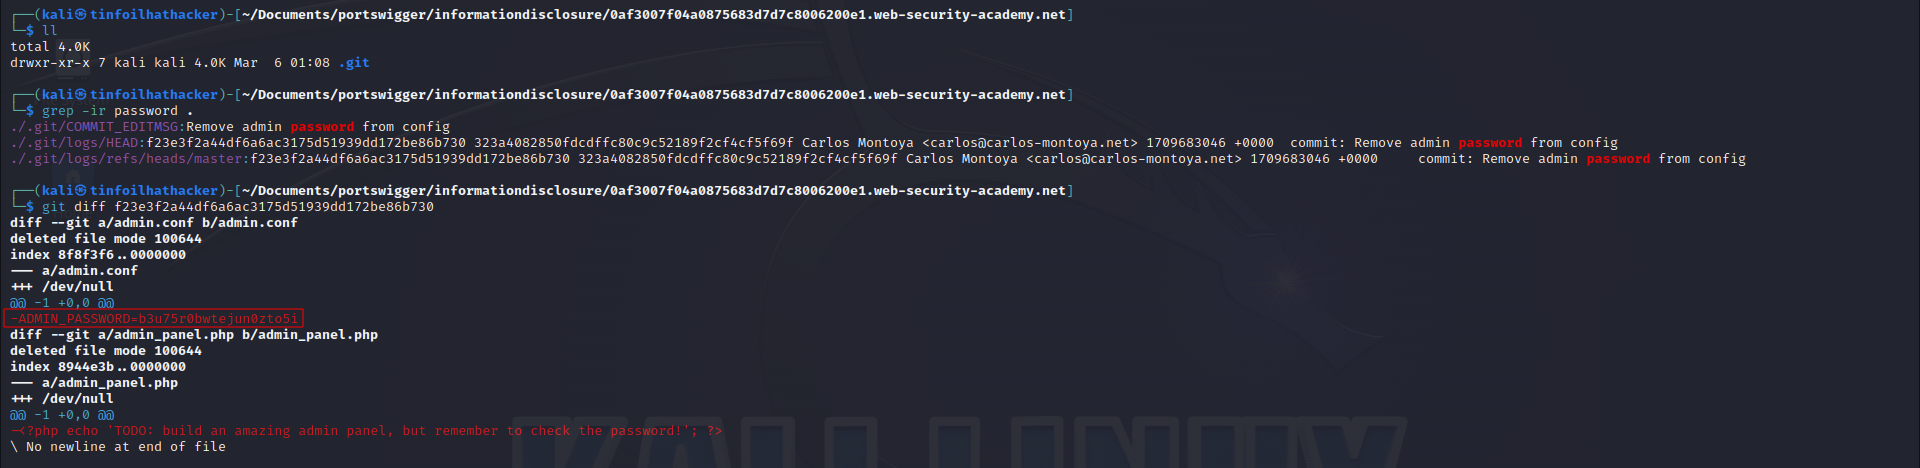
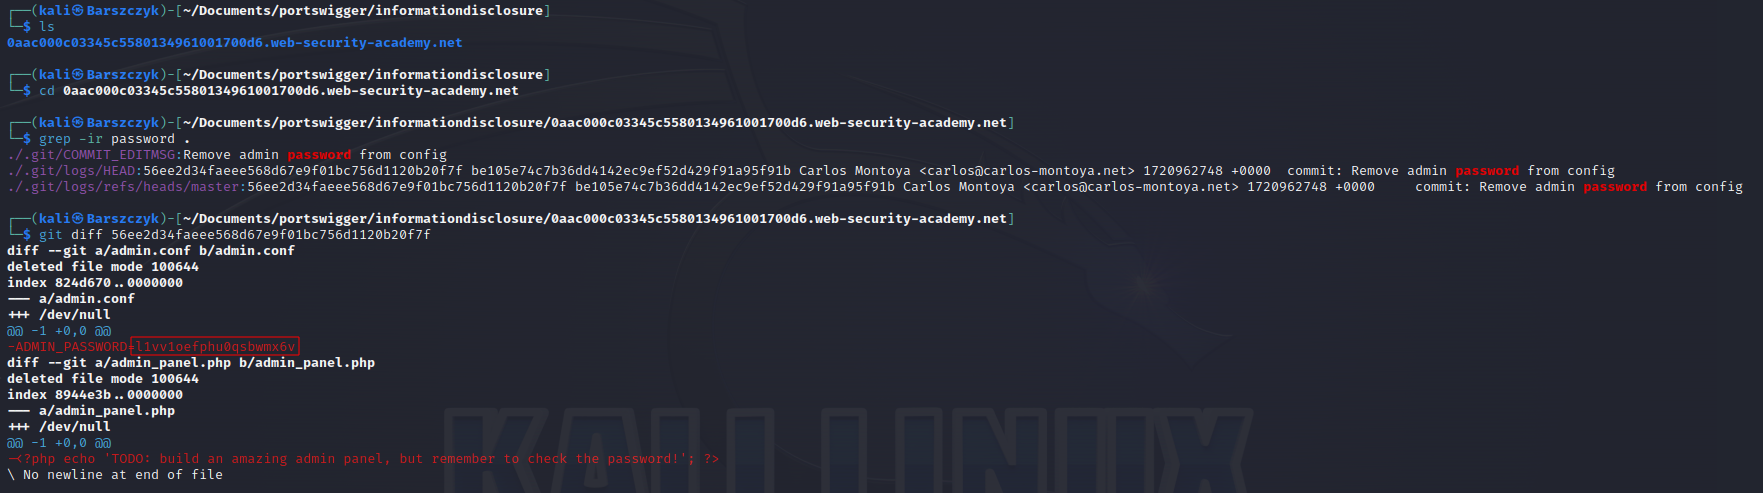
Information disclosure lab

Changed region(s): [[0.0, 0.0, 0.9983, 0.9872]]

diff --git a/PortSwigger/Server_Side/Information_disclosure/Information_disclosure_in_version_control_history.md b/PortSwigger/Server_Side/Information_disclosure/Information_disclosure_in_version_control_history.md
@@ -8,5 +8,5 @@ This lab discloses sensitive information via its version control history. To sol
 | *Git directory* |
 |![](Images/image-11.png)|
 | *Removal of admin password* |
-|![](Images/image-10.png)|
+|![](Images/image-12.png)|
 | *Administrator's password* |
